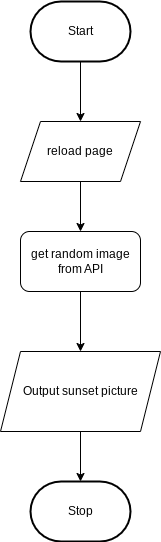
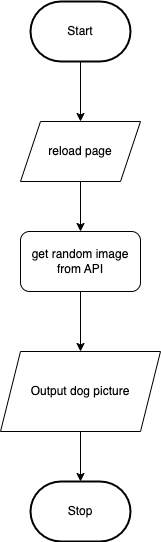
done

diff --git a/index.html b/index.html
@@ -22,7 +22,7 @@
         <span class="mdl-layout-title">Random Dog</span>
       </div>
     </header>
-    <div id="RandomCartoonCharacter"></div>
+    <div id="Randomdog"></div>
     <p></p>
   </div>
 </body>
